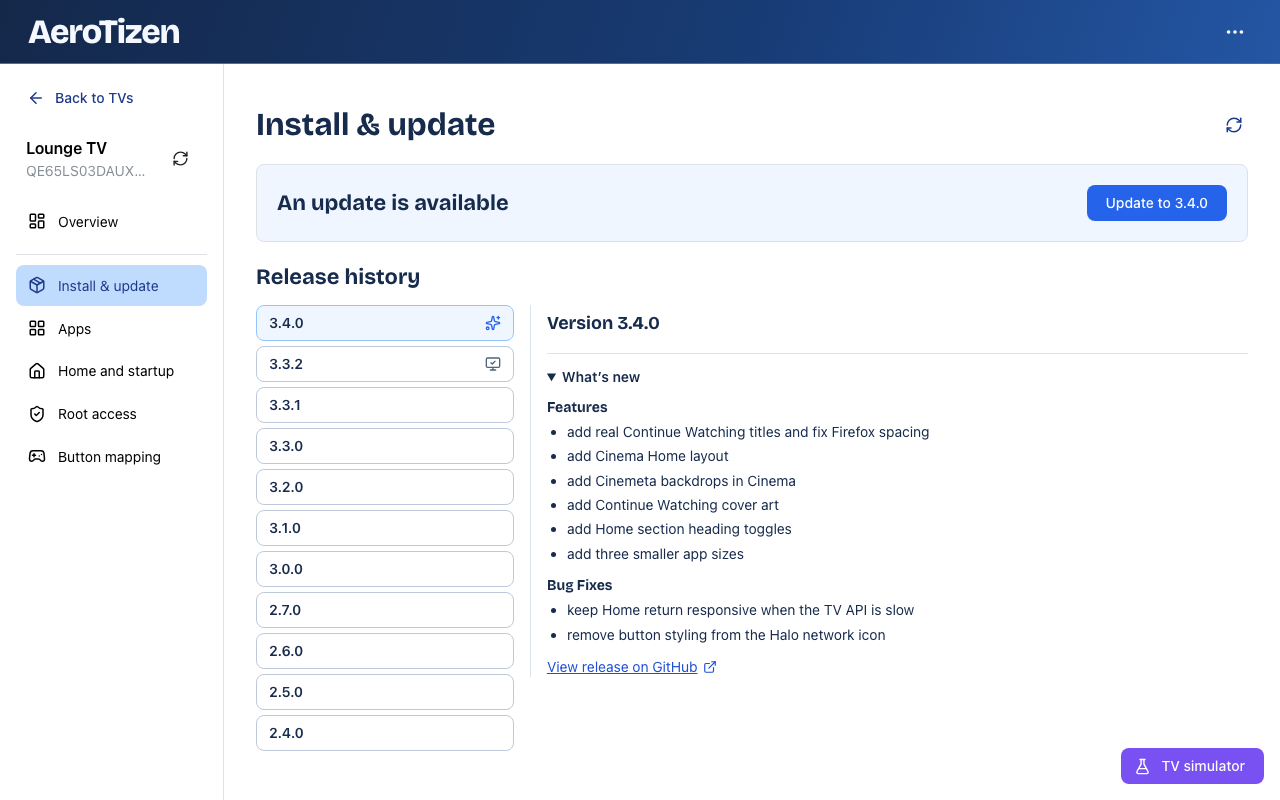
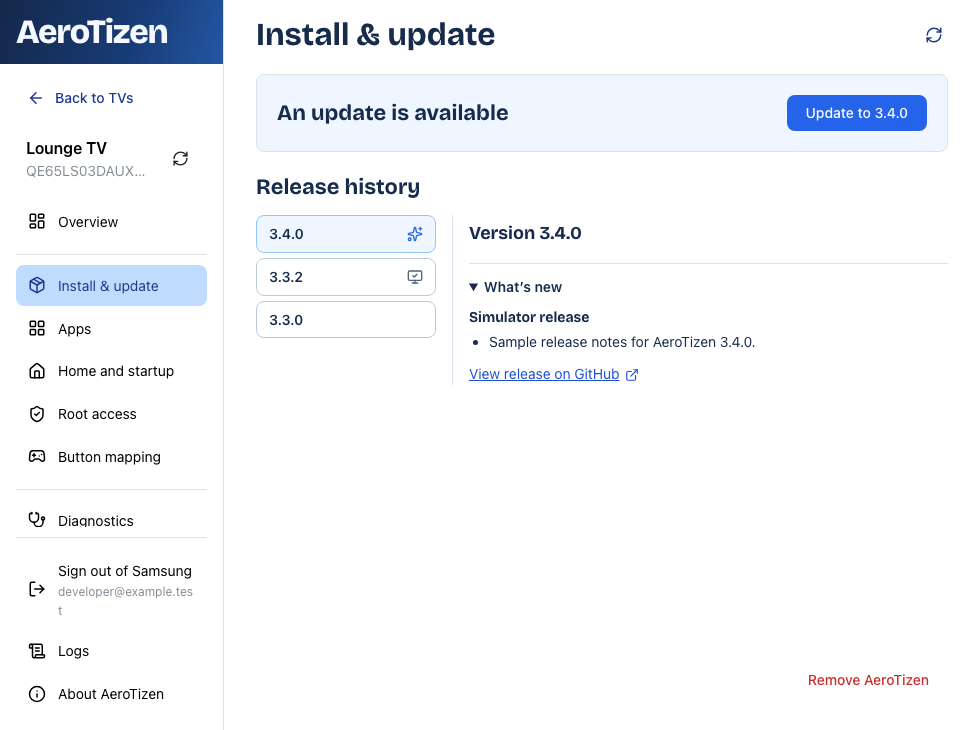
docs(desktop): refresh simulator screenshots

diff --git a/desktop/README.md b/desktop/README.md
@@ -7,7 +7,8 @@ account sessions, signing and recovery. SQLite stores saved TV profiles. Install
 include the managed TV helpers and need no Python runtime or CLI executable.
 
 See screenshots of [TV selection](screenshots/tv-selection.png), [Overview](screenshots/overview.png),
-and [Launcher](screenshots/launcher.png).
+[Launcher](screenshots/launcher.png), [About](screenshots/about.png), and the
+[sidebar on a narrow screen](screenshots/sidebar-mobile.png).
 
 ## Install or update the launcher
 
@@ -33,14 +34,14 @@ See the [blocked removal](screenshots/launcher-removal-blocked.png) and
 
 If a first install needs signing certificates, the app guides you through Samsung
 sign-in in your browser, creates the TV's signing profile, and continues installation.
-You can also sign in and out through the app menu. The account session lasts until
+You can also sign in and out at the bottom of the sidebar. The account session lasts until
 sign-out, expiry, or closing the app. Certificates are saved per TV for future updates.
 The app reuses signing profiles from the CLI state folder. For an existing installation,
 use its original signing profile. See [Samsung's signing requirements](https://developer.samsung.com/smarttv/develop/getting-started/setting-up-sdk/creating-certificates.html).
 
 See screenshots of [Samsung sign-in](screenshots/samsung-sign-in.png),
 [certificate setup](screenshots/samsung-certificates.png), and the
-[account menu after installation](screenshots/samsung-account-menu.png).
+[sidebar while signed in](screenshots/samsung-account-menu.png).
 
 ## TV details and GitHub reports
 
@@ -62,8 +63,7 @@ results to find the next step for this TV. **Technical details** includes the fi
 build when a compatible paired Root connection reports it.
 See the [Diagnostics view](screenshots/diagnostics.png).
 
-Open **Logs** from the TV sidebar, or from the app menu before connecting, to see desktop
-operations, newest first. The app keeps
+Open **Logs** at the bottom of the sidebar to see desktop operations, newest first. The app keeps
 up to 250 entries on this computer. **Export logs** saves a diagnostic ZIP with desktop
 activity, build and platform details, and up to 20 redacted Home recovery summaries.
 When a TV is selected, you can also include launcher and background service logs and a
